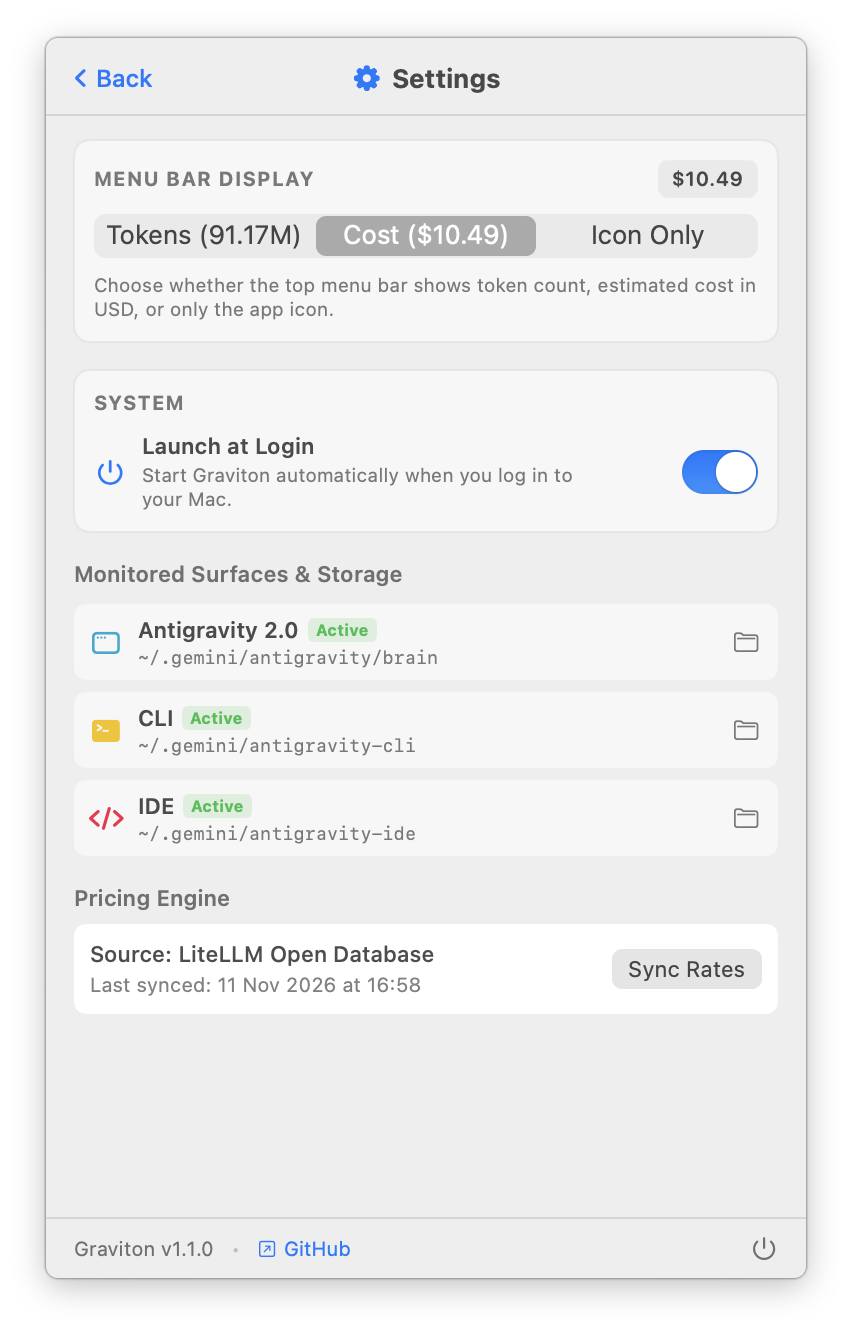
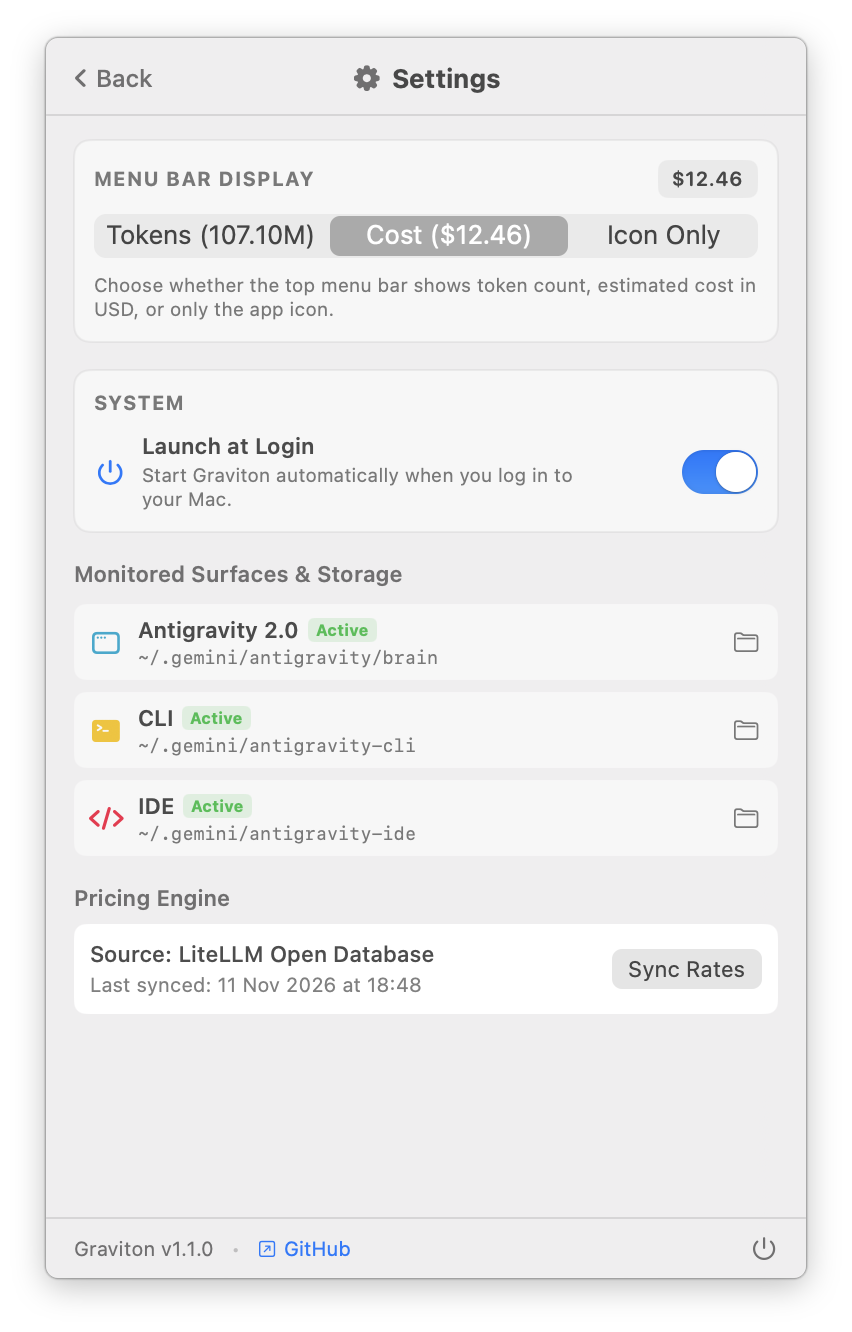
did update settings ui and asset;

diff --git a/Sources/Graviton/Views/SettingsSheet.swift b/Sources/Graviton/Views/SettingsSheet.swift
@@ -24,7 +24,7 @@ public struct SettingsSheet: View {
                         Text("Back")
                             .font(.system(size: 12, weight: .medium))
                     }
-                    .foregroundColor(.accentColor)
+                    .foregroundColor(.secondary)
                 }
                 .buttonStyle(.plain)
                 .frame(width: 50, alignment: .leading)
@@ -34,7 +34,7 @@ public struct SettingsSheet: View {
                 HStack(spacing: 5) {
                     Image(systemName: "gearshape.fill")
                         .font(.system(size: 12, weight: .bold))
-                        .foregroundColor(.accentColor)
+                        .foregroundColor(.secondary)
                     Text("Settings")
                         .font(.system(size: 13, weight: .bold))
                 }
